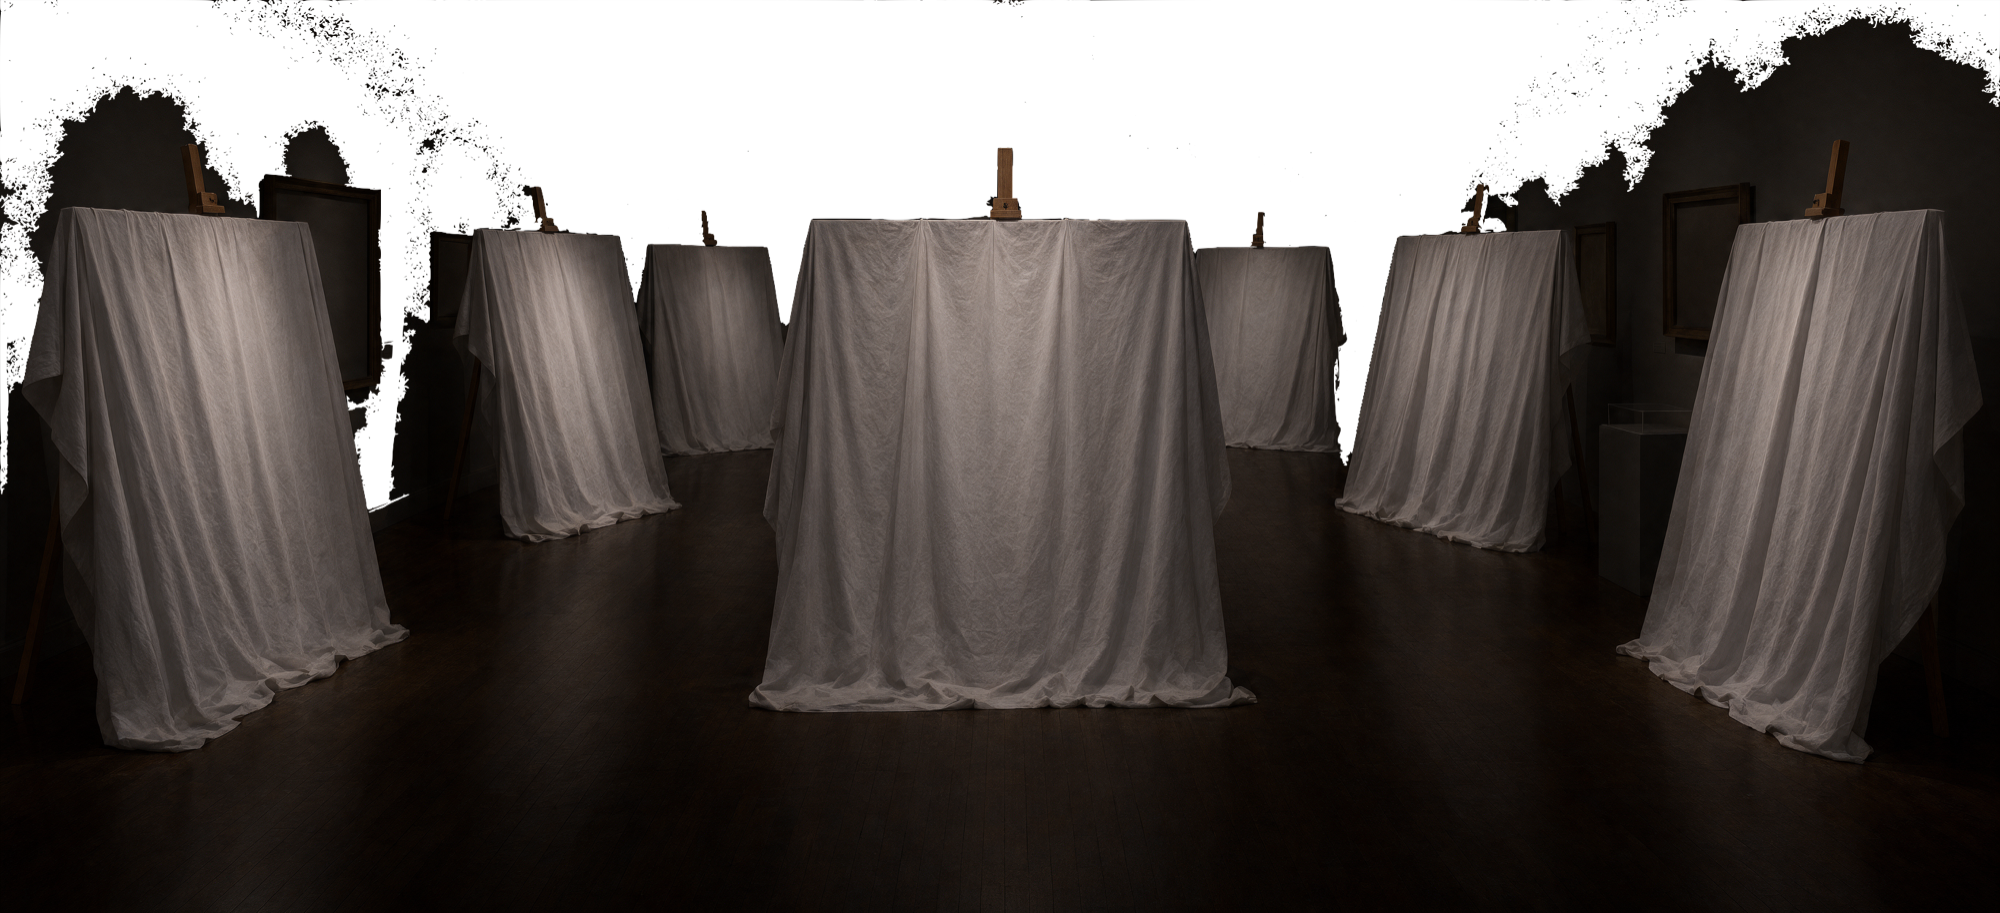
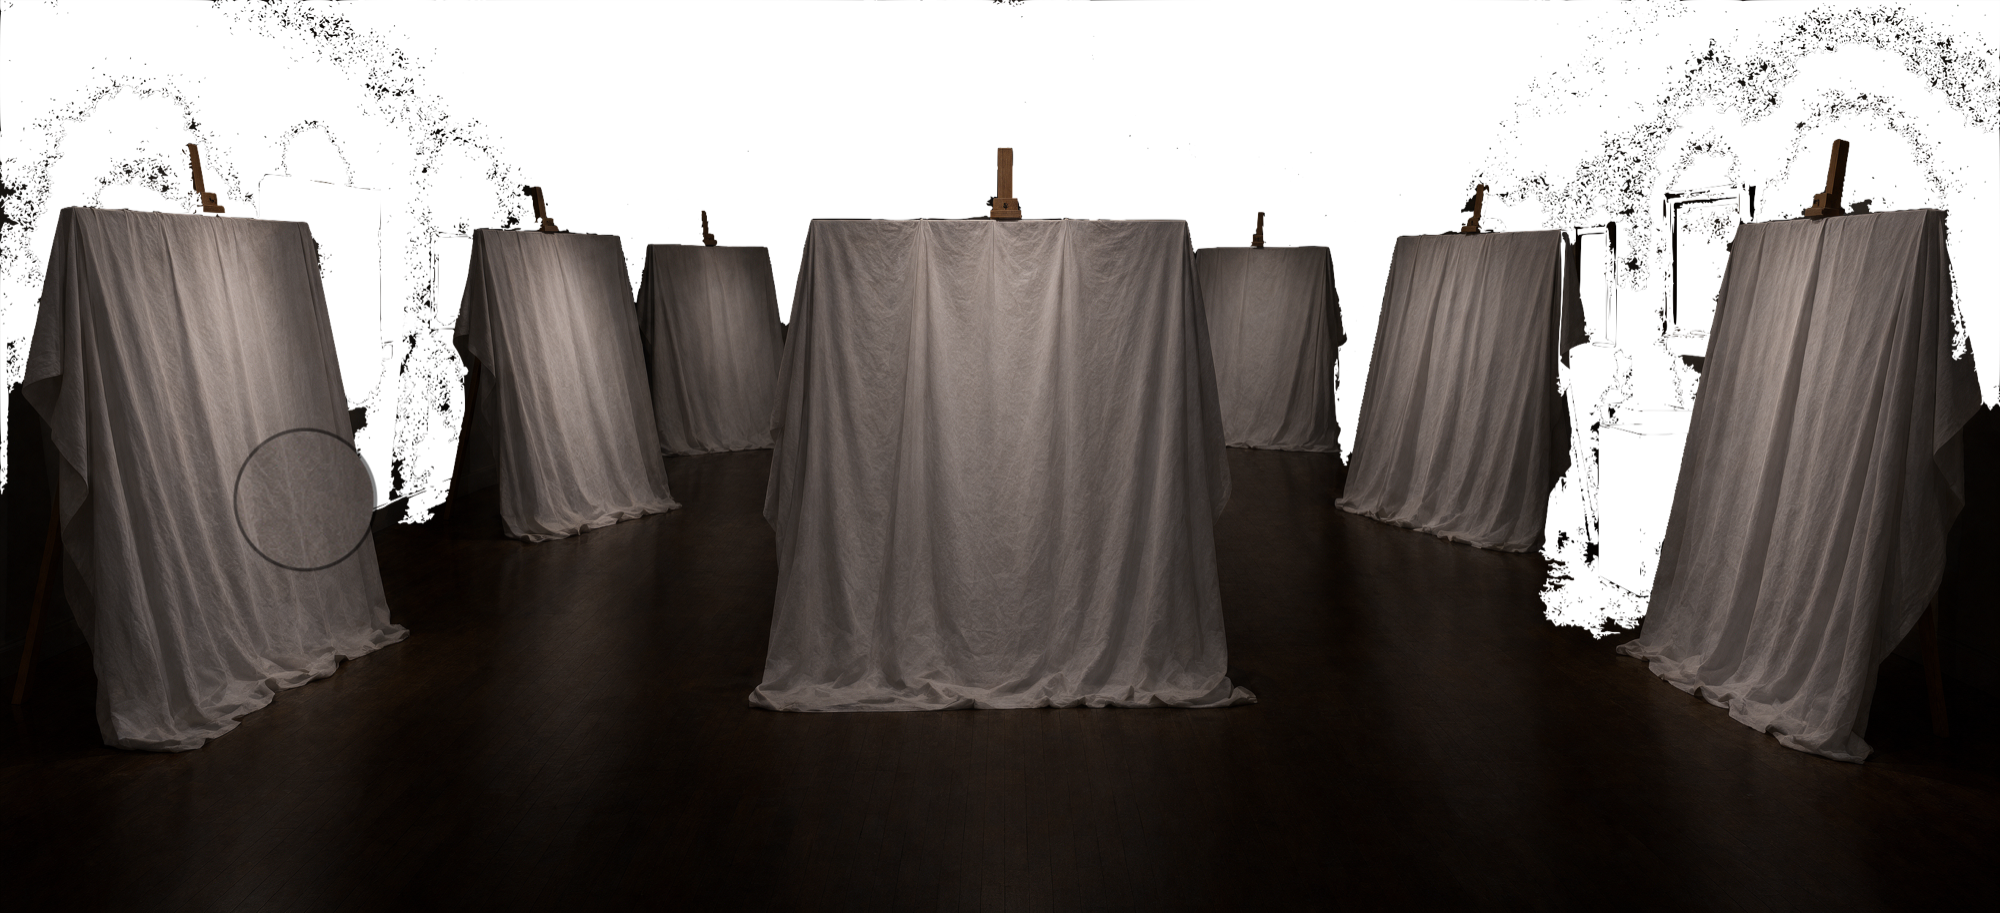
Update the about background easel image.

Changed region(s): [[0.744, 0.0, 1.0, 0.7054], [0.0, 0.092, 0.248, 0.5827]]

diff --git a/index.html b/index.html
@@ -7,7 +7,7 @@
   <link rel="preconnect" href="https://fonts.googleapis.com" />
   <link rel="preconnect" href="https://fonts.gstatic.com" crossorigin />
   <link href="https://fonts.googleapis.com/css2?family=Cormorant+Garamond:ital,wght@0,400;0,600;1,400&family=Manrope:wght@400;500;600&display=swap" rel="stylesheet" />
-  <link rel="stylesheet" href="styles.css?v=84" />
+  <link rel="stylesheet" href="styles.css?v=85" />
   <link rel="preload" as="image" href="images/tree-1.jpg" />
   <link rel="preload" as="image" href="images/tree-2.jpg" />
   <link rel="preload" as="image" href="images/tree-3.jpg" />
@@ -182,8 +182,8 @@
       </p>
     </section>
   </main>
-  <script src="menu.js?v=84"></script>
-  <script src="config.js?v=84"></script>
-  <script src="app.js?v=84"></script>
+  <script src="menu.js?v=85"></script>
+  <script src="config.js?v=85"></script>
+  <script src="app.js?v=85"></script>
 </body>
 </html>

diff --git a/public/index.html b/public/index.html
@@ -7,7 +7,7 @@
   <link rel="preconnect" href="https://fonts.googleapis.com" />
   <link rel="preconnect" href="https://fonts.gstatic.com" crossorigin />
   <link href="https://fonts.googleapis.com/css2?family=Cormorant+Garamond:ital,wght@0,400;0,600;1,400&family=Manrope:wght@400;500;600&display=swap" rel="stylesheet" />
-  <link rel="stylesheet" href="styles.css?v=84" />
+  <link rel="stylesheet" href="styles.css?v=85" />
   <link rel="preload" as="image" href="images/tree-1.jpg" />
   <link rel="preload" as="image" href="images/tree-2.jpg" />
   <link rel="preload" as="image" href="images/tree-3.jpg" />
@@ -182,8 +182,8 @@
       </p>
     </section>
   </main>
-  <script src="menu.js?v=84"></script>
-  <script src="config.js?v=84"></script>
-  <script src="app.js?v=84"></script>
+  <script src="menu.js?v=85"></script>
+  <script src="config.js?v=85"></script>
+  <script src="app.js?v=85"></script>
 </body>
 </html>
